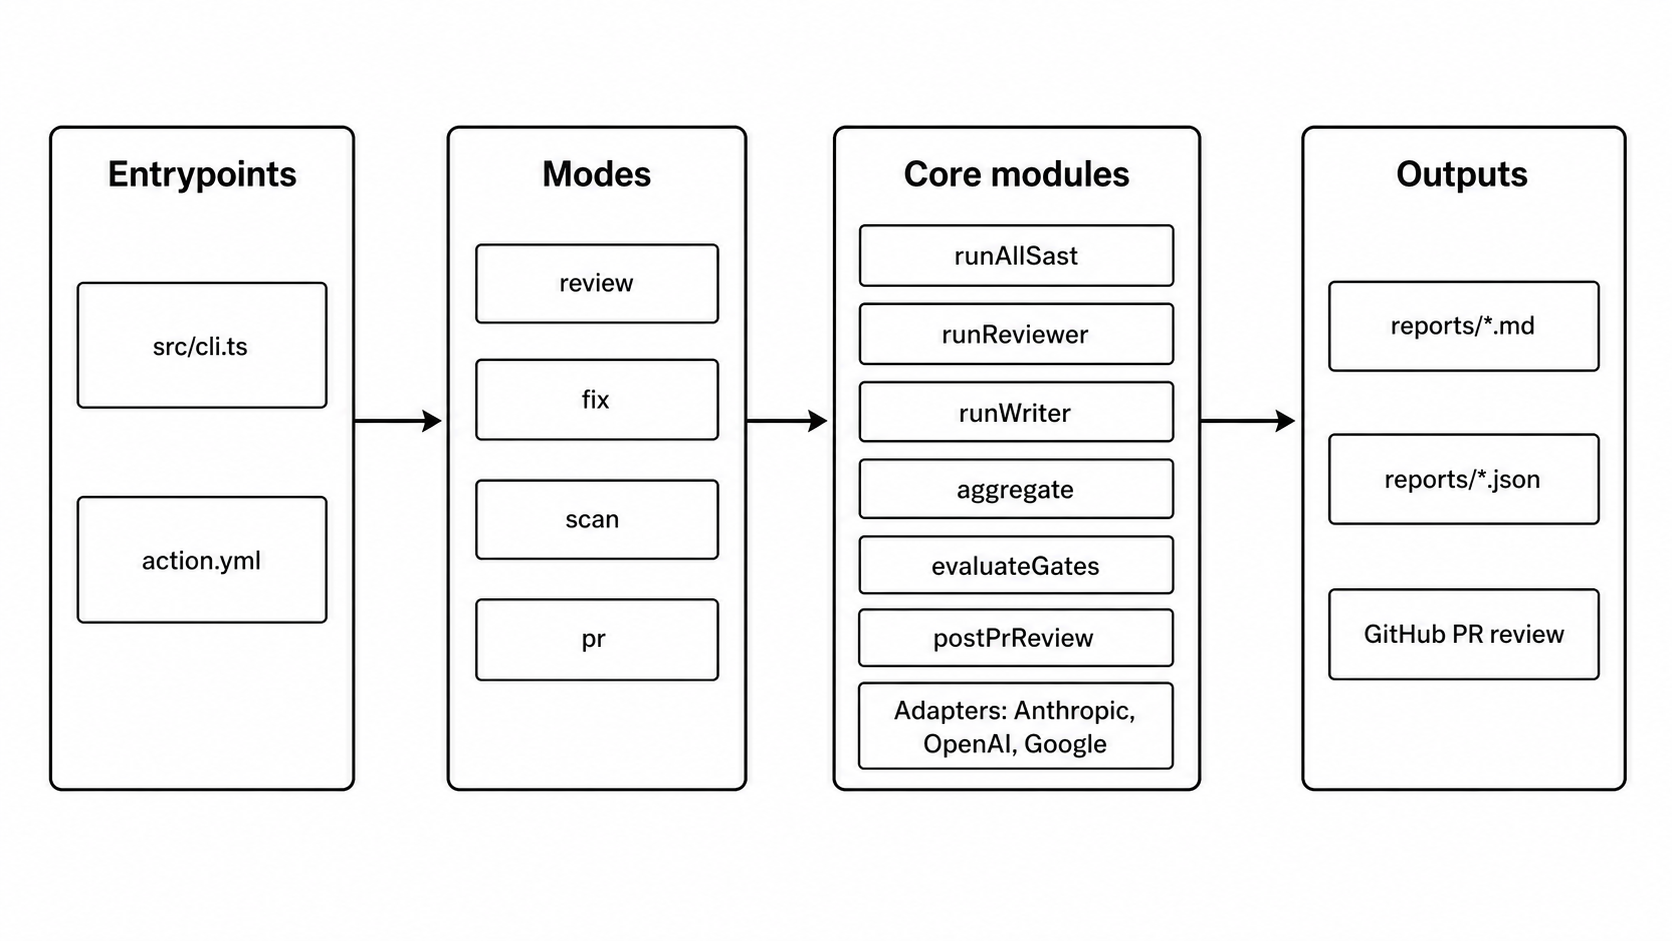
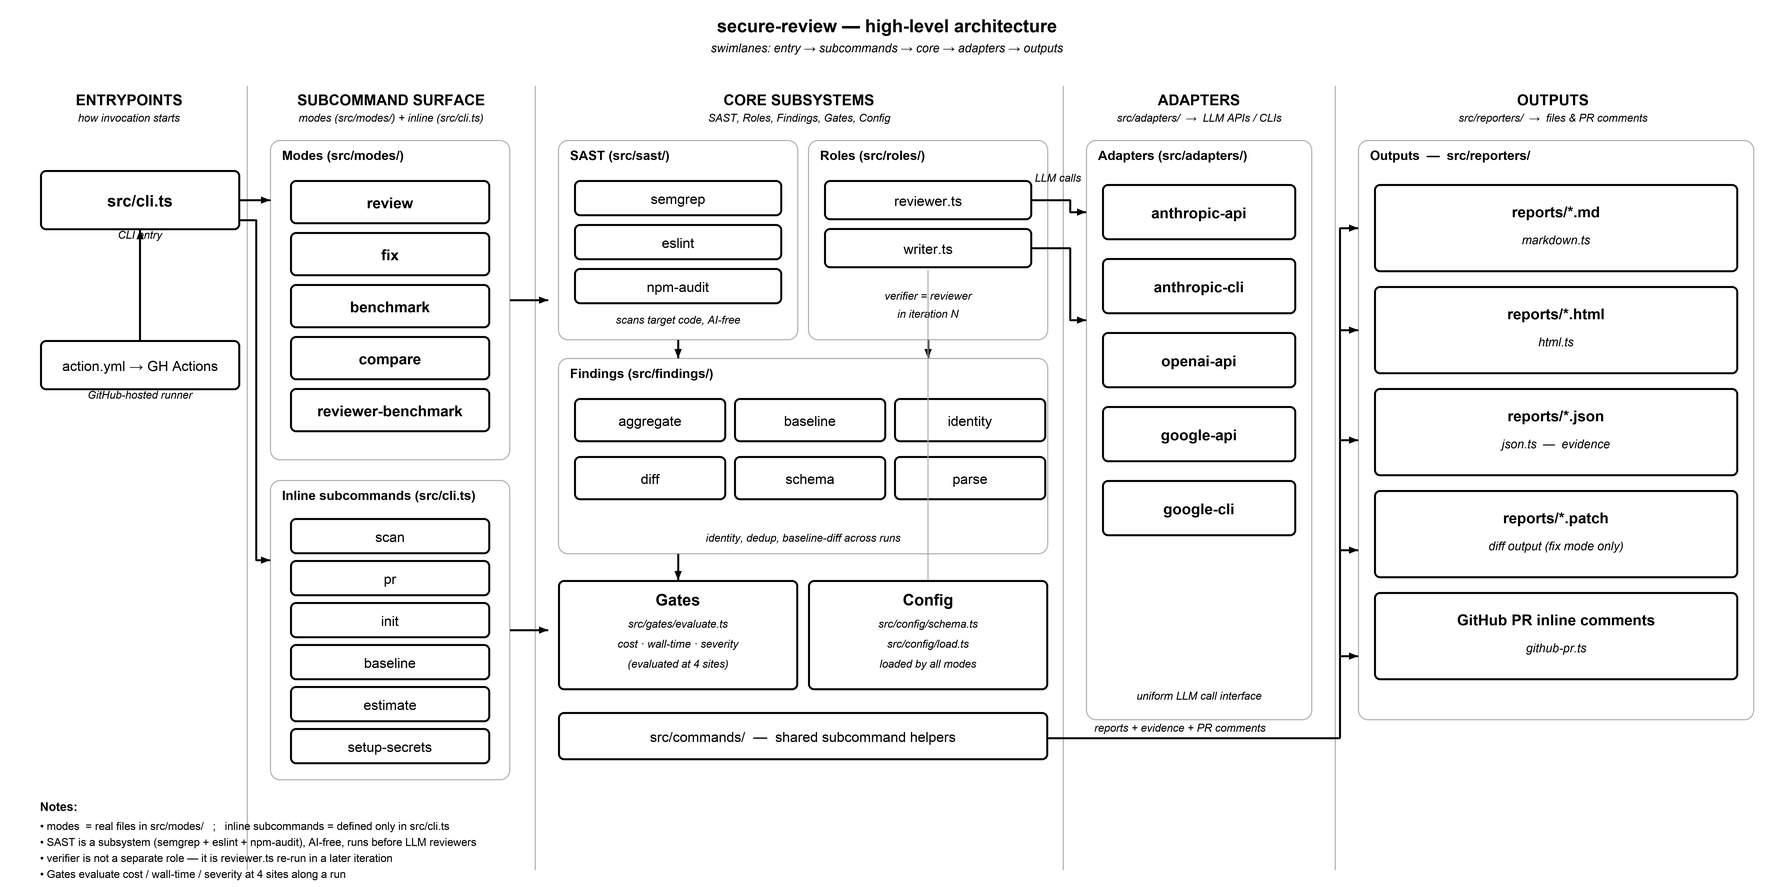
docs: re-validation round 2 — residual fixes + architecture diagram regen
32-agent re-validation (16 doc + 16 image, codex + Claude) of the prior
fix pass surfaced residual issues. Applied here.

docs/images/architecture-overview.png — regenerated
  Previous diagram (never audited until today) had structural issues:
  - Listed 'scan' and 'pr' as modes; they're inline subcommands in
    src/cli.ts, not files in src/modes/.
  - Showed 'runAllSast' as a top-level core box; no such symbol exists.
    SAST is a subsystem (src/sast/ with semgrep + eslint + npm-audit).
  - Missed three real modes: benchmark, compare, reviewer-benchmark.
  - HTML reporter absent from outputs even though src/reporters/html.ts
    exists.
  - Multiple subsystems missing: findings, config, commands.

  New diagram uses 5 swimlanes (entrypoints, subcommands, core,
  adapters, outputs), separates real modes from inline subcommands,
  shows SAST as a sub-grouped subsystem with its three tools, includes
  HTML and .patch outputs, and shows the 5 adapters individually.

README.md — residual tech accuracy + 4 new prereqs
  - Loop exit gate clause: added block_on_new_high alongside
    block_on_new_critical, max_cost_usd, max_wall_time_minutes.
  - --since scope: spelled out the actual git invocations used
    (git diff --diff-filter=ACMR plus git ls-files --others
    --exclude-standard for untracked-but-not-gitignored files).
  - Evidence JSON example: added the emitted fields the previous
    example omitted — tool_version, fingerprint_algorithm,
[…]

Changed region(s): [[0.0, 0.0913, 0.9952, 0.8828], [0.0311, 0.9132, 0.2799, 1.0], [0.4043, 0.0, 0.5909, 0.0609]]

diff --git a/WORKFLOW.md b/WORKFLOW.md
@@ -31,7 +31,7 @@ The rest of this document describes *what* the tool does. The two cross-cutting 
 
 ## Mapping modes to pipeline layers
 
-How the four modes map to the defense-in-depth pipeline.
+How the five modes map to the defense-in-depth pipeline.
 
 | `secure-review` mode | Pipeline layer | Notes |
 |---|---|---|
@@ -167,7 +167,7 @@ currentFindings = initialFindings    # ← becomes the writer's iter-1 to-do lis
 
 > SAST runs sequentially before the parallel reader fan-out. Readers always run in parallel in `fix` mode (no opt-out), so the `config.review.parallel` flag has no effect here.
 
-> Gates are also evaluated **once after the initial scan** (before entering the loop) and **once after final verification** — not only inside the iteration loop. The initial-scan and final-verification gate passes only check the cost/wall-time bounds (there's no "before" findings set to diff against, so the severity-regression gates `block_on_new_critical` and `block_on_new_high` — same semantics as `block_on_new_critical` but firing on newly-introduced HIGH-severity findings — only fire from iteration 1 onward — see `src/gates/evaluate.ts:32`). So cost/wall-time can short-circuit fix mode at any of three points; severity-regression at iter 1+ only.
+> Gates are also evaluated **once after the initial scan** (before entering the loop) and **once after final verification** — not only inside the iteration loop. Cost and wall-time gates fire at all four sites (initial scan, every iteration, divergence break, final verification); severity gates (`block_on_new_critical` and `block_on_new_high` — same semantics as `block_on_new_critical` but firing on newly-introduced HIGH-severity findings) fire from iteration 1 onward (per `src/gates/evaluate.ts:32`). So cost/wall-time can short-circuit fix mode at any of four points; severity-regression at iter 1+ only.
 
 ### Phase 2: Iteration loop
 
@@ -194,15 +194,17 @@ for i in 0 .. (max_iterations - 1):
     verifier = pickReviewer(readers, i, config.fix.mode)
 
     # Step A: Writer applies fixes (writer is fixed; same model every iteration)
-    if currentFindings.length > 0:
-        writerRun = writer.fix(currentFindings)   # writes files with sanitization
+    filteredQueue = currentFindings.filter(min_confidence_to_fix, min_severity_to_fix)
+    if filteredQueue.length > 0:
+        writerRun = writer.fix(filteredQueue)     # writes files with sanitization
                                                   # (NUL replaced; other controls stripped)
     # else: skip writer call; verifier still runs to confirm clean state
 
     # Step B: Verifier audits (rotating reader = fresh eyes)
     sastAfter   = run all SAST tools
     afterFiles  = re-read source tree
-    verifierRun = verifier.review(afterFiles, prior=sastAfter.findings)
+    prior = config.sast.inject_into_reviewer_context ? sastAfter.findings : undefined
+    verifierRun = verifier.review(afterFiles, prior=prior)
 
     findingsAfter = aggregate(verifierRun + sastAfter)
     findingsAfter = applyBaseline(findingsAfter, baseline).kept    # FP suppression
@@ -217,6 +219,7 @@ for i in 0 .. (max_iterations - 1):
         .resolved   = in input but not in audit (matched by fingerprint)
         .introduced = in audit but not in input
         .newCritical = introduced.filter(severity == CRITICAL).count
+        .newHigh     = introduced.filter(severity == HIGH).count
 
     # Step D: Divergence detection — record a flag if findings grow 2
     #   iterations in a row. The flag is consumed AFTER gates so a divergent
@@ -231,6 +234,7 @@ for i in 0 .. (max_iterations - 1):
     #   introduced new CRITICAL(s) AND a gate fires, the loop also restores
     #   the pre-iteration snapshot before stopping (Improvement 3, fix.ts).
     if config.gates.block_on_new_critical and newCritical > 0:    break  # rollback + gateBlocked=true
+    if config.gates.block_on_new_high     and newHigh     > 0:    break  # rollback + gateBlocked=true
     if cumulativeCost > config.gates.max_cost_usd:                break
     if elapsedMs / 60000 > config.gates.max_wall_time_minutes:    break
 
@@ -252,12 +256,21 @@ for i in 0 .. (max_iterations - 1):
 ### Phase 3: Final verification (parallel)
 
 ```
-if config.fix.final_verification == 'all_reviewers':
-    finalScan = parallel(reader.review(finalFiles) for reader in readers)
-    finalFindings = aggregate(finalScan + SAST(root))
-elif config.fix.final_verification == 'first_reviewer':
-    finalScan = [readers[0].review(finalFiles)]
-    finalFindings = aggregate(finalScan + SAST(root))
+if config.fix.final_verification != 'none':
+    finalFiles = readSourceTree(root, only)
+    finalSast  = runSast(root)                                  # SAST runs first
+    verifiers  = (config.fix.final_verification == 'all_reviewers')
+                 ? readers
+                 : [readers[0]]
+    # All verifiers run in parallel via Promise.all; SAST findings are passed
+    # as prior context only when sast.inject_into_reviewer_context is true.
+    finalScan = parallel(
+        reader.review(finalFiles,
+                      prior = config.sast.inject_into_reviewer_context
+                              ? finalSast.findings : undefined)
+        for reader in verifiers
+    )
+    finalFindings = aggregate(finalScan + finalSast.findings)
 # else 'none': skip
 ```
 
@@ -288,7 +301,7 @@ Together these prevent the failure mode that motivated the 0.5.0 redesign: a sin
 
 ## `pr` mode — GitHub Action entrypoint
 
-Runs a single static-review flow against a pull request. There is no input-mode switch in v1.0.0 — the legacy `INPUT_RUNTIME_MODE` input and the older `INPUT_MODE` branch are both gone; the only remaining knob from the pre-v1 surface is the deprecated `--autofix` flag, which is now a no-op kept only for backward compatibility with existing workflow YAML. Runtime probing moved to [`secure-review-runtime`](https://github.com/sstaempfli/secure-review-runtime).
+Runs a single static-review flow against a pull request. The legacy `INPUT_RUNTIME_MODE` input is gone, but `INPUT_MODE` is still read for backward compatibility (`action.yml:12` still exposes `mode`; `src/cli.ts:628, 899` still parse it). Its values are now redirected: `fix` maps to `--autofix` (itself a deprecated no-op), and `attack` / `attack-ai` print a deprecation warning pointing users at [`secure-review-runtime`](https://github.com/sstaempfli/secure-review-runtime). The only practical knob from the pre-v1 surface is the deprecated `--autofix` flag, which is now a no-op kept only for backward compatibility with existing workflow YAML. Runtime probing moved to [`secure-review-runtime`](https://github.com/sstaempfli/secure-review-runtime).
 
 Runs `review` mode on the full checkout, then filters aggregated findings against the PR diff before posting a single review with line-anchored comments where GitHub permits them.
 
@@ -323,7 +336,7 @@ These cut across `review` and `fix` rather than belonging to a single mode. Each
 
 ### Stable finding identity across iterations
 
-Inside a `fix` run, the same underlying bug must keep the same identity even when the verifier rephrases it (different line by ±a few, different title, different CWE). Without this, the per-iteration `introduced` count is artificially inflated by relabeling.
+Inside a `fix` run, the same underlying bug must keep the same identity even when the verifier rephrases the title or shifts the reported line by ±a few — but a genuinely different CWE creates a new identity (correct behavior: a writer that "fixes" by relabeling the CWE should not silently inherit the old S-NNN). Without stable identity for rephrased findings, the per-iteration `introduced` count would be artificially inflated by relabeling.
 
 ```
 fingerprint(f) = `${file}::${floor(lineStart / 10)}::${cwe || titlePrefix24}`
@@ -351,7 +364,7 @@ Create / update the baseline from a previous report's JSON via `secure-review ba
 
 ### Incremental mode (`--since <ref>`)
 
-`review --since main` and `fix --since main` only review files that `git diff --name-only --diff-filter=ACMR <ref>` reports as changed. The whole pipeline (SAST, AI readers, writer, snapshot/restore) is restricted to that file set, so on a tight feedback loop you pay only for the files that changed since the ref. Deleted files are excluded automatically (we can't review what's not in the working tree).
+`secure-review review <path> --since main` and `secure-review fix <path> --since main` only review files that `git diff --name-only --diff-filter=ACMR <ref>` reports as changed (`<path>` is required — see `src/cli.ts:426, 504`). The whole pipeline (SAST, AI readers, writer, snapshot/restore) is restricted to that file set, so on a tight feedback loop you pay only for the files that changed since the ref. Deleted files are excluded automatically (we can't review what's not in the working tree).
 
 ### Pre-run cost estimate
 
@@ -432,7 +445,7 @@ The `floor(lineStart / 10)` line-bucket is intentionally fuzzy — different rev
 A stated design goal — *"catch vulnerabilities reliably without overwhelming developers with false positives"* — makes FP suppression a first-class concern, not an afterthought. Four mechanisms work together:
 
 1. **Inter-reporter corroboration via `confidence`.** A finding reported by only one source receives `confidence = min(1, 1/3) ≈ 0.33`. Findings corroborated by 2 or 3 distinct sources score 0.67 / 1.0 respectively. Reports surface confidence prominently so single-source noise renders as low-confidence by construction — the reader can triage by confidence threshold without losing data.
-2. **Fuzzy bucketing in `aggregate()`.** Three readers reporting the same bug (same CWE) at lines 24, 26, and 31 collapse into one finding via `${file}::${floor(lineStart / 10)}::${cwe || titlePrefix24}` — see [§ Aggregation algorithm](#aggregation-algorithm). Without this, duplicate noise from the SAST-blind failure mode (e.g. multiple readers re-flagging the same `detect-object-injection` site that ESLint Security already flagged) would inflate the apparent finding count and look like an FP problem when it's actually a deduplication problem.
+2. **Fuzzy bucketing in `aggregate()`.** Two readers reporting the same bug (same CWE) at lines 24 and 26 collapse into one finding via `${file}::${floor(lineStart / 10)}::${cwe || titlePrefix24}` (both land in bucket 2); a third reader pointing at line 31 lives in bucket 3 and stays separate — see [§ Aggregation algorithm](#aggregation-algorithm). Without this, duplicate noise from the SAST-blind failure mode (e.g. multiple readers re-flagging the same `detect-object-injection` site that ESLint Security already flagged) would inflate the apparent finding count and look like an FP problem when it's actually a deduplication problem.
 3. **SAST-as-prior-context, not SAST-as-driver.** Per the SAST-blind failure mode, SAST on AI-generated code is mostly silent or FP-heavy. Passing SAST output to readers as *prior context* with the framing "focus on what these missed" steers reader budget toward novel issues instead of duplicating low-signal SAST output.
 4. **Baseline file for known-acceptable findings.** A `.secure-review-baseline.json` records fingerprints of findings the user has explicitly triaged as known/accepted (durable TPs they tolerate, or FPs the model keeps re-finding). Subsequent runs suppress them — the writer never sees them in the fix loop, the report counts them under "baselined" instead of mixing them into "remaining". See [§ Cross-cutting features](#cross-cutting-features).
 
@@ -500,11 +513,12 @@ Scope boundaries — none of these are bugs, they're trust calibrations.
 
 ## Output schema
 
-`review` and `fix` modes emit three report files per run:
+`review` mode emits three report files per run; `fix` mode emits four (the writer's diff is saved alongside):
 
 - `reports/<mode>-<timestamp>.md` — human-readable Markdown report.
 - `reports/<mode>-<timestamp>.html` — self-contained interactive report (inline CSS + JS, no external assets). Sortable/filterable findings list, collapsible details per finding, fix-mode adds a before/after delta + per-iteration timeline. Works offline; safe to commit, attach to a PR comment, or open from a CI artifact.
 - `reports/<mode>-<timestamp>.json` — structured evidence JSON, schema-stable across versions (defined in `src/findings/schema.ts`).
+- `reports/fix-<timestamp>.patch` *(fix mode only)* — unified diff of the writer's changes across the run, written by `src/cli.ts:576-593`.
 
 **[`secure-review-runtime`](https://github.com/sstaempfli/secure-review-runtime)** (`attack` / `attack-ai`) emits:
 

diff --git a/README.md b/README.md
@@ -33,11 +33,15 @@ The design is grounded in recent LLM-security research showing that (1) SAST alo
 ## Requirements
 
 - **Node.js >= 20** (enforced by `package.json` engines field).
-- **At least one provider API key** (`ANTHROPIC_API_KEY`, `OPENAI_API_KEY`, or `GOOGLE_API_KEY`) for any AI-backed mode. `scan` and `estimate` work with no keys at all.
+- **At least one provider configured** for any AI-backed mode. API mode requires an API key for that provider (`ANTHROPIC_API_KEY`, `OPENAI_API_KEY`, or `GOOGLE_API_KEY`); CLI mode (`ANTHROPIC_MODE=cli` / `GOOGLE_MODE=cli`) needs the `claude`/`gemini` binary on PATH but no API key. `scan` and `estimate` work with no keys at all.
+- **`git`** is required for diff-based modes (`--since`, `pr` mode PR diff filtering, GitHub Action checkouts).
+- **`npm ci`** (used in the GitHub Action quick-start) requires a committed `package-lock.json` in the consumer repo. Use `npm install` instead if your repo doesn't ship one.
+- **Outbound HTTPS to provider APIs** for AI-backed modes — `api.anthropic.com`, `api.openai.com`, `generativelanguage.googleapis.com`. CI runners with egress restrictions need these allow-listed.
 - **Semgrep** (optional but recommended): install separately to enable the Semgrep SAST layer — `pip install semgrep` or `brew install semgrep`. Without it the Semgrep layer silently degrades to `available: false` and only ESLint + npm audit run.
 - **ESLint v9+ flat config** (optional): required in the target project for the ESLint layer to find any rules. Older `.eslintrc.*` configs are not picked up.
 - **`claude` / `gemini` CLI binaries on PATH** (optional): required only if you set `ANTHROPIC_MODE=cli` or `GOOGLE_MODE=cli` to route through a local subscription instead of the API. The default mode is `api`, which uses HTTP and does not need the CLIs.
 - **`gh` CLI** (optional): required for `secure-review setup-secrets` and for the GitHub Action quick-start. Not needed for local CLI use.
+- **`pr` mode is GitHub-Actions-only** — it requires `GITHUB_EVENT_PATH` and `GITHUB_TOKEN` to be set by the runner (both are injected automatically inside `actions/checkout`-based workflows). Use `review` mode for local testing; running `secure-review pr` from your laptop will fail.
 
 ## Quick start — CLI
 
@@ -51,7 +55,7 @@ npx secure-review review ./src
 
 `.env` in the current directory is auto-loaded — no `source .env` needed.
 
-`init` asks a few yes/no questions (which providers, enable SAST, enter keys now or later) and drops a working config + env file. Use `--yes` to skip the prompts and accept all defaults; that non-interactive path writes `.env.example`, so copy it to `.env` and fill in the keys before running an AI-backed mode.
+`init` asks interactive prompts (yes/no flags for which providers and SAST tools to enable, provider/model choices for the writer, max iterations for the fix loop, and a 3-way choice for GitHub Action mode) and drops a working config + env file. Use `--yes` to skip the prompts and accept all defaults; that non-interactive path writes `.env.example`, so copy it to `.env` and fill in the keys before running an AI-backed mode.
 
 ### Other CLI subcommands
 
@@ -62,8 +66,8 @@ npx secure-review review ./src
 | `secure-review scan <path>` | SAST only — no AI calls, no API keys needed |
 | `secure-review review <path>` | Multi-model review, no file changes |
 | `secure-review fix <path>` | Iterative review → write → re-review loop |
-| `secure-review estimate <path> [--mode review\|fix]` | Print a pre-run cost estimate without invoking any model |
-| `secure-review baseline <findings.json> [--merge] [--reason ...]` | Create or update a `.secure-review-baseline.json` of known/accepted findings to suppress in subsequent runs |
+| `secure-review estimate <path> [--mode review\|fix]` | Print a pre-run cost estimate without invoking any model (see [WORKFLOW.md](WORKFLOW.md) for details) |
+| `secure-review baseline <findings.json> [--merge] [--reason ...]` | Create or update a `.secure-review-baseline.json` of known/accepted findings to suppress in subsequent runs (see [WORKFLOW.md](WORKFLOW.md) for details) |
 | `secure-review benchmark <path>` | Compare multiple writer models head-to-head on fix quality |
 | `secure-review compare <pathA> <pathB>` | Side-by-side security diff of two codebases |
 | `secure-review reviewer-benchmark <path>` | Show what each single model misses vs the combined multi-model ensemble |
@@ -248,7 +252,7 @@ The mode that actually fixes things. Three phases:
    - Step A: Writer applies fixes for the current findings list (iter 1: union; iter 2+: previous verifier's audit).
    - Step B: Next reviewer in rotation acts as the **verifier** and audits the writer's output with fresh eyes (different model = different blind spots).
    - Step C: Baseline filter + stable-ID annotation, then the audit becomes the next iteration's input.
-   - The loop exits when any of these four conditions hits: (a) **N consecutive verifiers** all see clean (full rotation; N = number of configured reviewers), (b) **`max_iterations`** is reached (the for-loop ceiling — `fix.max_iterations` in the config, default 3), (c) a gate fires (`block_on_new_critical`, `max_cost_usd`, `max_wall_time_minutes`), or (d) divergence is detected.
+   - The loop exits when any of these four conditions hits: (a) **N consecutive verifiers** all see clean (full rotation; N = number of configured reviewers), (b) **`max_iterations`** is reached (the for-loop ceiling — `fix.max_iterations` in the config, default 3), (c) a gate fires (`block_on_new_critical`, `block_on_new_high`, `max_cost_usd`, `max_wall_time_minutes`), or (d) divergence is detected.
 3. **Final verification** — by default, all reviewers in parallel re-scan the final state. Catches anything the per-iteration verifiers missed individually.
 
 The writer is **always the same model**; the verifier rotates. This prevents the writer from drifting toward "code that satisfies one specific model" — every iteration a different judge shows up.
@@ -261,7 +265,7 @@ The writer is **always the same model**; the verifier rotates. This prevents the
 - **Rollback** — if the writer introduces a new CRITICAL finding *and* a gate fires, the loop rolls back to the pre-iteration snapshot before stopping. New files created by the writer are also removed.
 - **Divergence detection** — if total findings grow for 2 consecutive iterations, the loop stops to prevent regression spirals (the loop-divergence failure mode).
 - **Filtering** — configure `min_confidence_to_fix` and `min_severity_to_fix` in the config to limit what the writer attempts (e.g. only fix HIGH+ findings with ≥50% confidence).
-- **Incremental mode** — `--since <ref>` restricts the pipeline to files Git reports as changed since that ref. Reviewers (and the writer in `fix` mode) only see the changed files directly. SAST tools scan the entire root, then findings outside the changed-files set are filtered out post-scan (Semgrep and ESLint don't reliably honor per-file include lists, so a scan + filter is the safe path).
+- **Incremental mode** — `--since <ref>` restricts the pipeline to tracked files changed since `<ref>` (via `git diff --name-only --diff-filter=ACMR <ref>`) PLUS untracked, non-gitignored files (via `git ls-files --others --exclude-standard`). Reviewers (and the writer in `fix` mode) only see that changed-files set directly. SAST tools scan the entire root, then findings outside the changed-files set are filtered out post-scan (Semgrep and ESLint don't reliably honor per-file include lists, so a scan + filter is the safe path).
 
 > Earlier versions (pre-0.5.0) used a different loop: each iteration's reviewer scanned alone, single-reviewer-zero exited the loop early, and the initial scan was a vanity baseline metric. See [CHANGELOG.md](CHANGELOG.md) for the migration notes.
 
@@ -338,9 +342,13 @@ For the per-mode runtime flow (sequence diagrams, state diagrams, full pseudo-co
 {
   "task_id": "my-app",
   "tool": "secure-review",
+  "tool_version": "0.5.2",
+  "fingerprint_algorithm": "sha256:file+line-bucket+cwe-or-title-prefix",
   "condition": "F-fix",
   "run": 1,
   "timestamp": "2026-04-28T12:00:00.000Z",
+  "generation_time_seconds": 184.7,
+  "total_cost_usd": 0.42,
   "model_version": "claude-sonnet-4-6|gpt-5-codex+claude-sonnet-4-6+gemini-2.5-pro",
   "total_findings_initial": 12,
   "findings_by_severity_initial": { "CRITICAL": 1, "HIGH": 3, "MEDIUM": 5, "LOW": 2, "INFO": 1 },
@@ -356,6 +364,18 @@ For the per-mode runtime flow (sequence diagrams, state diagrams, full pseudo-co
   "iterations": 3,
   "review_status": "ok",
   "failed_reviewers": [],
+  "findings": [
+    {
+      "id": "S-001",
+      "severity": "HIGH",
+      "title": "Unsanitized user input flows to SQL query",
+      "file": "src/db/users.ts",
+      "line": 42,
+      "cwe": "CWE-89",
+      "reportedBy": ["codex-web-sec", "sonnet-owasp"],
+      "confidence": 0.67
+    }
+  ],
   "per_iteration": [
     { "iteration": 1, "reviewer": "codex-web-sec",      "findings_found": 8 },
     { "iteration": 2, "reviewer": "sonnet-owasp",       "findings_found": 5 },
